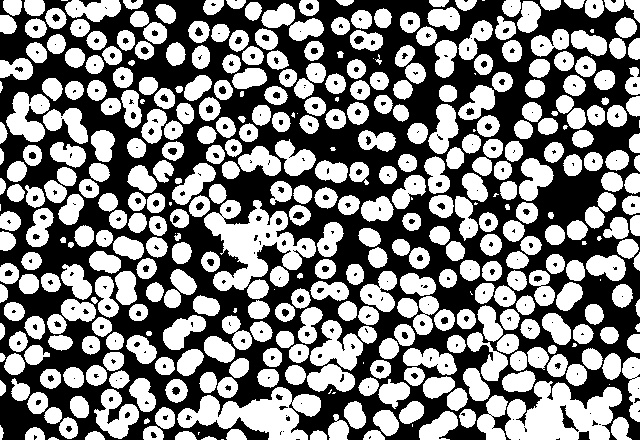
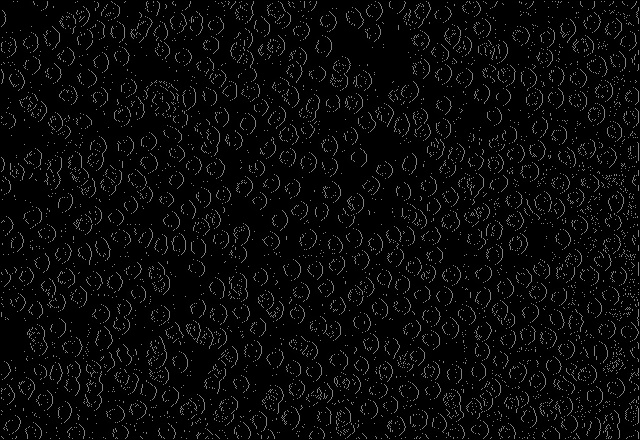
Contours Commit

diff --git a/src/com/company/Main.java b/src/com/company/Main.java
@@ -1,42 +1,65 @@
 package com.company;
 
 import org.opencv.core.*;
-import org.opencv.highgui.*;
-import org.opencv.imgproc.*;
+import org.opencv.highgui.Highgui;
+import org.opencv.imgproc.Imgproc;
+
+import java.util.ArrayList;
+import java.util.List;
 
 public class Main {
 
 
     public static void main(String[] args)
     {
-        int erosion_size = 10;
-        int dilation_size = 10;
-
-        System.load( "/usr/local/opencv/lib/libopencv_java2410.dylib" );
+        int blockSize = 11;
+        System.load("/usr/local/opencv/lib/libopencv_java2410.dylib");
 
         Mat original = Highgui.imread("Images/normal1.jpg",Highgui.CV_LOAD_IMAGE_COLOR);
-        //Mat gaussian = new Mat(original.rows(),original.cols(),Imgproc.COLOR_RGB2RGBA);
-        Mat grayscale = new Mat(original.rows(),original.cols(),Imgproc.COLOR_RGB2GRAY);
+        Mat gaussian = new Mat(original.rows(),original.cols(),Imgproc.COLOR_RGB2RGBA);
+        Mat grayscale = new Mat();
         Mat threshold = new Mat(original.rows(),original.cols(),Imgproc.COLOR_RGB2RGBA);
-        Mat result = new Mat(original.rows(),original.cols(),Imgproc.COLOR_RGB2RGBA);
-
-        Mat erosion = Imgproc.getStructuringElement(Imgproc.MORPH_RECT,
-                new Size(2*erosion_size + 1, 2*erosion_size+1));
-
-        Mat dilation = Imgproc.getStructuringElement(Imgproc.MORPH_RECT,
-                new Size(2 * dilation_size + 1, 2*dilation_size+1));
-
+        Mat threshold2 = new Mat(original.rows(),original.cols(),Imgproc.COLOR_RGB2RGBA);
+        Mat mask = new Mat(original.rows()+2, original.cols()+2, CvType.CV_8UC1, new Scalar(0));
+        Mat edges = new Mat(original.rows(),original.cols(),Imgproc.COLOR_RGB2RGBA);
 
         Imgproc.cvtColor(original, grayscale, Imgproc.COLOR_RGB2GRAY);
-        //Imgproc.GaussianBlur(grayscale, gaussian, new Size(11, 11), 0);
-        Imgproc.threshold(grayscale, threshold, 200.0, 255.0, Imgproc.THRESH_BINARY_INV);
-        Imgproc.erode(threshold, result, erosion);
-        Imgproc.dilate(result, result, dilation);
+        Imgproc.GaussianBlur(grayscale, gaussian, new Size(5, 5), 0);
+        Imgproc.adaptiveThreshold(grayscale, threshold, 255.0, Imgproc.ADAPTIVE_THRESH_GAUSSIAN_C, Imgproc.THRESH_BINARY_INV, blockSize, 1);
+        Imgproc.Canny(threshold, edges, 100.0, 100.0 * 3);
+        Imgproc.dilate(threshold, threshold, Imgproc.getStructuringElement(Imgproc.MORPH_RECT, new Size(3, 3)));
+        Imgproc.dilate(threshold, threshold, Imgproc.getStructuringElement(Imgproc.MORPH_RECT, new Size(2, 2)));
+        Imgproc.erode(threshold, threshold, Imgproc.getStructuringElement(Imgproc.MORPH_RECT, new Size(3, 3)));
 
+        contours(threshold, original, threshold2, mask);
 
-        new WindowDisplayer("Images/normal1.jpg",original);
-        //new WindowDisplayer("Images/gaussian.jpg",gaussian);
-        new WindowDisplayer("Images/threshold.jpg",threshold);
+        new WindowDisplayer("Images/threshold.jpg", threshold, "Threshold");
+        new WindowDisplayer("Images/normal1e2.jpg", original, "Original");
+        //new WindowDisplayer("Images/gaussian.jpg", gaussian, "gaussian");
+        //new WindowDisplayer("Images/threshold.jpg", threshold, "Threshold");
+        //new WindowDisplayer("Images/grayscale.jpg", grayscale, "Gray");
+        //new WindowDisplayer("Images/result.jpg", edges, "Edges");
+    }
 
+    public static void contours(Mat threshold, Mat original, Mat threshold2, Mat mask)
+    {
+        double X, Y;
+        List<MatOfPoint> contours = new ArrayList<MatOfPoint>();
+        Imgproc.findContours(threshold, contours, new Mat(), Imgproc.RETR_LIST,Imgproc.CHAIN_APPROX_NONE);
+        //Imgproc.drawContours(threshold,contours,1,new Scalar(255,255,255),1);
+        for(int i=0; i< contours.size();i++){
+            System.out.println(Imgproc.contourArea(contours.get(i)));
+            if (Imgproc.contourArea(contours.get(i)) > 10 ){
+                Rect rect = Imgproc.boundingRect(contours.get(i));
+                System.out.println(rect.width);
+                if (rect.height > 8 && rect.height < 17){
+                    //System.out.println(rect.x +","+rect.y+","+rect.height+","+rect.width);
+                    Core.rectangle(original, new Point(rect.x,rect.y), new Point(rect.x+rect.width,rect.y+rect.height),new Scalar(0,0,255));
+                    X = rect.width/2;
+                    Y = rect.height/2;
+                    Imgproc.floodFill(threshold2, mask, new Point(X,Y),new Scalar(0));
+                }
+            }
+        }
     }
 }

diff --git a/src/com/company/WindowDisplayer.java b/src/com/company/WindowDisplayer.java
@@ -7,9 +7,9 @@ import javax.swing.*;
 
 public class WindowDisplayer extends JFrame {
 
-    public WindowDisplayer(String imgStr, Mat m){
+    public WindowDisplayer(String imgStr, Mat m,String name){
         Highgui.imwrite(imgStr,m);
-        JFrame frame = new JFrame("Image");
+        JFrame frame = new JFrame(name);
         frame.setDefaultCloseOperation(JFrame.EXIT_ON_CLOSE);
         frame.setResizable(true);
         frame.setLocationRelativeTo(null);
